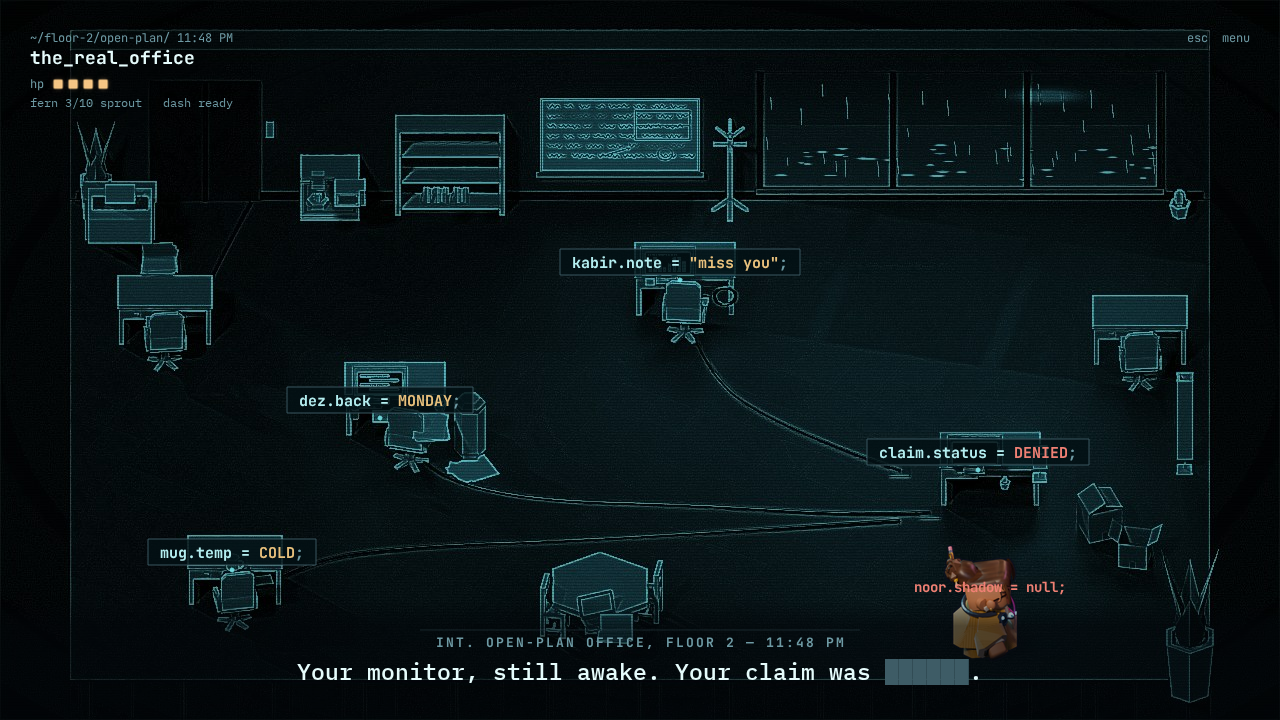
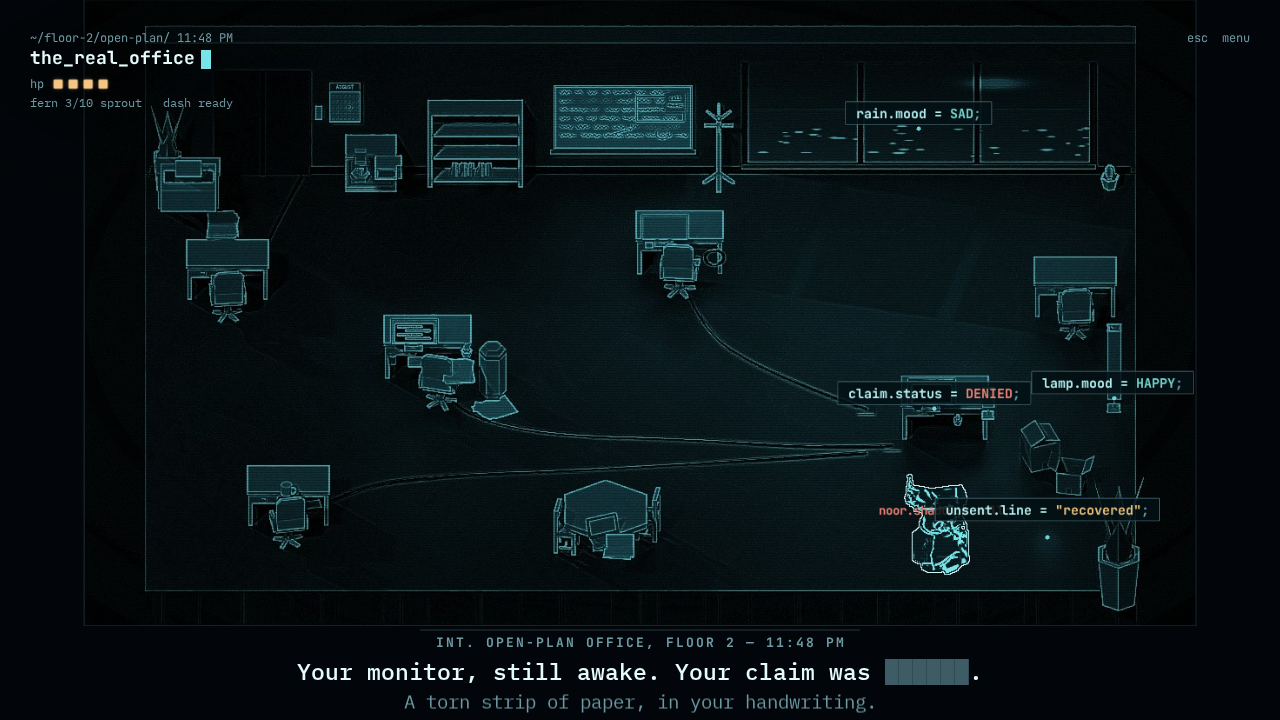
docs: linger lines, credits, handoff, screenshots + ambient GIF

diff --git a/docs/story/phase-1-levels.md b/docs/story/phase-1-levels.md
@@ -81,3 +81,112 @@ No mounted world signs. Plates are data (`game/src/rooms.ts`); each object has a
   | (secret) Fern | Fern, at her desk. She was always here first. | `fern.awake = true;` (lens only) |
   | (secret) wall | A wall where a door should be. Painted in. | `wall.solid = TRUE;` (lens only) |
 - Puzzles are unchanged (same words, same order rules); only the presentation moved from signs to captions + code lines.
+
+## Linger layer (art-v8, 2 Nov 2026)
+
+Optional, off the main path. Every room has at least 4 story objects to inspect (E or tap), 2+ Blender-rendered ambient loops, a code-vision **toy pair** (two inspectables whose last words swap only with each other), one collectible **unsent line** (the six lines build `unsent.txt` in the pause journal; the HUD shows `unsent n/6`), a stand-still line after 6 s (a different one on revisit), and an inspect-all unlock that reveals one extra code line. Some objects read differently on revisit. Source of truth: `game/src/linger.ts`.
+
+### office
+- **o_phone**: Your phone, face up on a desk that isn’t yours. Thirty-seven unread.  
+  *revisit:* Your phone, face up. Thirty-eight unread now. One came while you were gone.  
+  `phone.unread = 37;`
+- **o_calendar**: A calendar stuck on August. Nobody’s fault, it says.  
+  `calendar.fault = NOOR;`
+- **o_sticky**: A sticky note on the whiteboard: CALL, and a name scratched out hard.  
+  `note.name = null;`
+- **o_printer**: The printer jammed on page one. Page one was the apology.  
+  `printer.job = "sorry.pdf";`
+- **o_photo**: A photo, face down. Easier for everyone.  
+  `photo.side = DOWN;`
+- **o_rain** *(toy: RAIN FEELS SAD)*: Rain on the glass, taking its time. It feels {}.  
+  `rain.mood = undefined;`
+- **o_lamp** *(toy: LAMP FEELS HAPPY)*: A floor lamp nobody switches off. It feels {}.  
+  `lamp.mood = undefined;`
+- *stand still:* You stand still. The office does too. It’s had practice. / *revisit:* The rain hasn’t moved on either.
+- *inspect-all:* You’ve read the whole room. One thing is missing, and it’s you. `office.missing = "noor";`
+- *toy swapped:* The rain cheers up. The lamp takes it personally. / *swapped back:* Everyone goes back to how they were. It’s easier.
+
+### hub
+- **h_mirror** *(toy: MIRROR RUNS FORWARD)*: A mirror that copies you a beat late. It runs {}.  
+  `mirror.dir = undefined;`
+- **h_clock** *(toy: CLOCK RUNS BACKWARD)*: The clock disagrees with the mirror. It runs {}.  
+  `clock.dir = undefined;`
+- **h_coat**: The coat rack from upstairs, one floor too far. It holds nothing, carefully.  
+  `rack.holds = null;`
+- **h_notes**: A stack of sticky notes on Fern’s desk. Every one says good morning.  
+  *revisit:* The sticky stack on Fern’s desk is one note taller.  
+  `fern.notes = 214;`
+- **h_plant**: The office plant, but greener. Somebody here remembers to water it.  
+  `plant.thirsty = FALSE;`
+- *stand still:* Stand still long enough and the room starts copying you. It’s flattering. It isn’t. / *revisit:* The clock has lost another hour. It looks relieved.
+- *inspect-all:* Everything here is a reflection. Some of it is running late. `mirror.lag = 0.4s;`
+- *toy swapped:* The mirror gets ahead of you. The clock finally goes somewhere. / *swapped back:* The mirror falls back in line. Late, as usual.
+
+### corridor
+- **c_moth** *(toy: MOTH WANTS LAMP)*: A moth keeps the lamp company. It wants the {}.  
+  `moth.wants = undefined;`
+- **c_bucket** *(toy: BUCKET WANTS DRIP)*: A bucket under a slow leak. It wants the {}.  
+  `bucket.wants = undefined;`
+- **c_umbrella**: An umbrella, bone dry, in a corridor with no weather.  
+  `umbrella.wet = FALSE;`
+- **c_tape**: Tape on the floor where a desk used to be. It left in a hurry.  
+  `desk.owner = "kabir";`
+- **c_drip**: Something upstairs is leaking, one patient drop at a time.  
+  `leak.source = "floor 3";`
+- *stand still:* In the dark you can hear the building think. Mostly about you. / *revisit:* The moth has moved an inch to the left. It calls this progress.
+- *inspect-all:* You touched everything in a dark corridor. Brave, or just lonely. `corridor.length = "longer than yesterday";`
+- *toy swapped:* The moth goes to the bucket. The bucket looks up at the lamp. Nothing drips upward. / *swapped back:* The moth remembers the lamp. The bucket stops hoping.
+
+### archive
+- **a_radio**: A radio tuned between two stations. It can’t commit either.  
+  `radio.station = BETWEEN;`
+- **a_duck** *(toy: DUCK STAYS AFLOAT)*: A rubber duck, on duty. It stays {}.  
+  `duck.state = undefined;`
+- **a_memo** *(toy: MEMO STAYS SUNK)*: A memo under the water, still legible. It stays {}.  
+  `memo.state = undefined;`
+- **a_boots**: Wellies by the wall, lined up neat. Somebody planned for this.  
+  `boots.owner = "dez";`
+- **a_leak**: A pipe over the pit, keeping time with drips.  
+  `pipe.fixed = FALSE;`
+- *stand still:* Water keeps the only honest record in here. Every step, a ripple. / *revisit:* The duck has drifted. It doesn’t explain itself.
+- *inspect-all:* Nothing in here was ever thrown away. That was the problem. `archive.deleted = 0;`
+- *toy swapped:* The duck goes down with dignity. The memo comes up for air. / *swapped back:* The duck bobs back up, unbothered. The memo sinks, relieved.
+
+### arena
+- **r_bin**: A bin of crumpled drafts. Nine of them, all yours.  
+  *revisit:* The bin of drafts. Ten now. You don’t remember the tenth.  
+  `drafts.binned = 9;`
+- **r_chair**: One chair, facing the ring. Somebody always watches you rehearse.  
+  `audience.size = 1;`
+- **r_scrap**: A draft that got as far as one word. Honestly,  
+  `draft.opening = "Honestly,";`
+- **r_lamp** *(toy: LIGHT RUNS WARM)*: The one lamp, holding the room together. It runs {}.  
+  `light.temp = undefined;`
+- **r_rim** *(toy: RIM RUNS COLD)*: A ring of light around the floor. It runs {}.  
+  `rim.temp = undefined;`
+- *stand still:* The arena is quiet the way a page is quiet before you ruin it. / *revisit:* The bin has one more draft in it than last time.
+- *inspect-all:* Nine drafts. You only ever sent the first one. `draft.version = 9;`
+- *toy swapped:* The room changes its mind about the weather. / *swapped back:* The lamp is warm again. The rim pretends it never wasn’t.
+
+### message
+- **m_bench**: A bench for waiting. It has been waiting longest.  
+  `bench.waiting = TRUE;`
+- **m_plant**: A plant that only grows toward the screen.  
+  `plant.light = SCREEN;`
+- **m_lamp**: A lamp left on for somebody coming home late.  
+  `lamp.for = "kabir";`
+- **m_kabir** *(toy: KABIR IS AWAY)*: Kabir’s name in the contact list. He is {}.  
+  `kabir.status = undefined;`
+- **m_papa** *(toy: PAPA IS TYPING)*: Papa’s name, three dots beside it. He is {}.  
+  `papa.status = undefined;`
+- *stand still:* Nobody types in here. The silence has three dots in it. / *revisit:* Papa’s last message is still the last message.
+- *inspect-all:* Somebody read every word in this room. The receipt says so. `kabir.read = TRUE;`
+- *toy swapped:* Kabir is typing. Kabir has been typing for three years. / *swapped back:* Kabir is away again. Papa picks the dots back up.
+
+### Unsent lines (collectibles, one per room)
+- office: "Kabir. I'm sorry I made it about the claim."
+- hub: "Papa asks about you like you're the weather."
+- corridor: "I still leave the hallway light on. Habit."
+- archive: "I filed everything except the part where I miss you."
+- arena: "I wrote this nine times. This is the honest one."
+- message: "Come home for Diwali. I'll make the bad chai."

diff --git a/docs/HANDOFF.md b/docs/HANDOFF.md
@@ -225,3 +225,12 @@ A better long-term fix is to make the scripts read the `GAMES_ROOT` and `BLENDER
 - Noor dash: bun lumps, flyaways, pencil and face locks are regrouped under pivots in `noor7.py` and rotated per dash frame (trail in the burst, overshoot + settle in the skid). Run `HAIRSIGN=-1 LEAN=-1 blender -b --python noor7.py -- dash ../render/sprites 24`, then `pack7.py`.
 - FX: jab = caret stab flash + glyph sparks; slash = arc ribbon with the word streaming along it; enemies get a white hit pop + squash.
 - Batch renders: `/tmp/rr8.sh` and `/tmp/rr9.sh` (not kept); the commands are in this section and in `art-v7/tools/scene7.py`.
+
+## 10. Session 5 (2 Nov 2026): weak-spot pass + "linger" layer (art-v8)
+- **Caption bar:** the world camera is letterboxed above the bar (viewport 1113x626, zoom 626/720, centred; thin pillars). HUD/caption objects (scrollFactor 0) are routed to a full-screen `ui` camera every `prerender` (`GameScene.setupCameras`). Use `toWorld()/toScreen()` for pointer maths. Applies to every room.
+- **Hub:** calmer plate (grid emission 0.02, ghost desks/static motes/floor dial removed), coral focal spot on the door. Two plates `hub_shut` / `hub_open`; open crossfades to a plate rendered without the coral light, so the pink floor reflection is gone.
+- **Corridor:** the cyan floor bars were baked ptile emissive quads in rooms7.py, now removed; warm pools at x 640/1000 when lit.
+- **Hair:** noor dash re-rendered with HAIRAMP 1.45 plus in-game additive hair echoes (`hairEcho`, cropped head region, warm tint).
+- **Code-vision Noor:** `art/tools/wire8.py` makes `noor_*_wire` sheets with the same frame JSON, so the ghost stays in sync with animation.
+- **Linger layer:** `game/src/linger.ts` (content), `art/tools/rooms8.py` (props + ambient loops, AMBPASS in scene7.py, strips via post7/sync_game → `RoomArt.amb`). Save fields `looked, lines, visits, idle, toys`. Lines are in docs/story/phase-1-levels.md "Linger layer".
+- **Render:** `art/tools/render_rooms8.sh` (about 7 min at 64 samples), then `npm run build && npm run playtest` (127 checks, including the `linger` block; `ONLY_LINGER=1 node tests/playtest.mjs` runs just that block). Kill any stale `vite preview` on :4175 first, or the test runs against old dist.

diff --git a/CREDITS.md b/CREDITS.md
@@ -134,3 +134,9 @@ No new third-party assets. Everything added is original work made here:
 - art-v7b props in `art-v7/tools/rooms7.py` (office storytelling props, cables, nook, printer; hub mirror pane, reversed clock, ghost desks, door panel; archive hinged bridge with chains) are procedural Blender geometry. New procedural textures `art-v7/tex/whiteboard.png`, `rain_light.png`, `clock_mirror.png`, `mon_mirror.png` (PIL, no text, no third-party images). Office and hub furniture reuse the already-credited Kenney Furniture Kit / Mini Characters (CC0).
 - Noor dash hair secondary motion (`art-v7/tools/noor7.py`), jab/slash/hit FX (code-drawn in `game/src/game.ts`).
 - `game/public/assets/sprites/fern_seated.png` is the existing Fern sheet with the baked speech text and ring masked out (same masking as the mock-words `fern_clean.png`).
+
+## Session 5 (2 Nov 2026): art-v8 linger layer + weak-spot pass
+No new third-party asset packs. Added in this session:
+- `art/tex/` (made by `art/tools/make_tex_v8.py`, PIL, original): calendar_aug, phone_37, sticky_call, sticky_gm, lostline, memo, saver_00..11, chatglow_00..07, clock_blank. Their lettering uses the already-shipped OFL-1.1 fonts JetBrains Mono / IBM Plex Mono (`game/public/assets/fonts`).
+- New props in `art/tools/rooms8.py` are procedural Blender geometry (phone, bucket, umbrella, tape, pipe, duck, radio, wellies, moth, drips, flakes, rim) plus Kenney Furniture Kit `chair` and `coatRackStanding` (CC0, Kenney.nl, already credited above).
+- Ambient loops in `game/public/assets/rooms/amb/` and the wireframe Noor sheets `game/public/assets/sprites/noor_*_wire.*` (`art/tools/wire8.py`, edge pass over our own Noor renders) are our own Blender renders. No AI-generated imagery.
